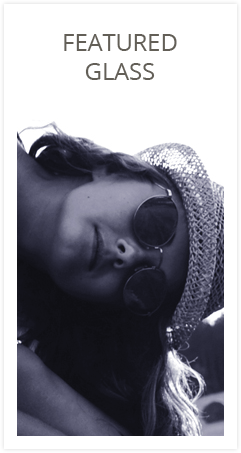
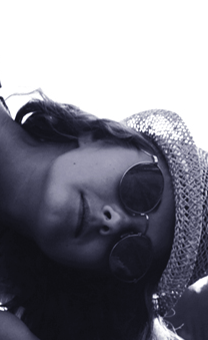
Боковой слайдер

diff --git a/app/blocks/auxiliary-slider/auxiliary-slider.js b/app/blocks/auxiliary-slider/auxiliary-slider.js
@@ -1,0 +1,18 @@
+import Swiper from 'swiper';
+
+export const auxiliarySlider = () => {
+	const slider = new Swiper('.auxiliary-slider__slider-container', {slidesPerColumn: 1, slidesPerGroup: 1, slidesPerView: 1, spaceBetween: 20, loop: true});
+	const dots = document.querySelectorAll('.auxiliary-slider__dot');
+
+	slider.on('slideChange', () => {
+		const d = document.querySelector('.auxiliary-slider__dot_active');
+		d.classList.remove('auxiliary-slider__dot_active');
+		dots[slider.realIndex].classList.add('auxiliary-slider__dot_active');
+	});
+
+	for (let i = 0; i < dots.length; i++) {
+		dots[i].addEventListener('click', function () {
+			slider.slideTo(i + 1);
+		});
+	}
+};

diff --git a/app/blocks/main-slider/main-slider.js b/app/blocks/main-slider/main-slider.js
@@ -1,7 +1,7 @@
 import Swiper from 'swiper';
 
 export const initialMainSlider = () => {
-	const mainSlider = new Swiper('.swiper-container', {slidesPerColumn: 1, slidesPerGroup: 1, slidesPerView: 1, spaceBetween: 20, loop: true,
+	const mainSlider = new Swiper('.main-slider__slider-container', {slidesPerColumn: 1, slidesPerGroup: 1, slidesPerView: 1, spaceBetween: 20, loop: true,
 		navigation: {
 			nextEl: '.main-slider__btn-next',
 			prevEl: '.main-slider__btn-prev'}

diff --git a/app/scripts/app.js b/app/scripts/app.js
@@ -3,10 +3,12 @@ import $ from 'jquery';
 import {select}from '../blocks/select/select.js';
 import {mobileMenu}from '../blocks/mobile-menu/mobile-menu.js';
 import {initialMainSlider}from '../blocks/main-slider/main-slider.js';
+import {auxiliarySlider}from '../blocks/auxiliary-slider/auxiliary-slider.js';
 
 $(() => {
 	svg4everybody();
 	select();
 	mobileMenu();
 	initialMainSlider();
+	auxiliarySlider();
 });
